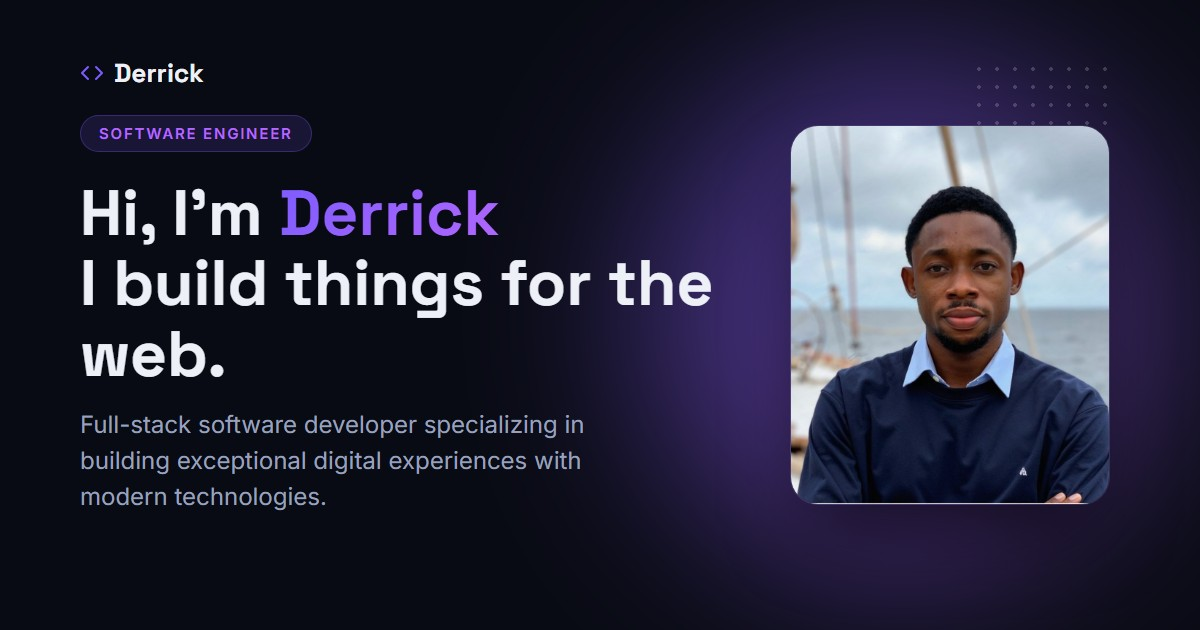
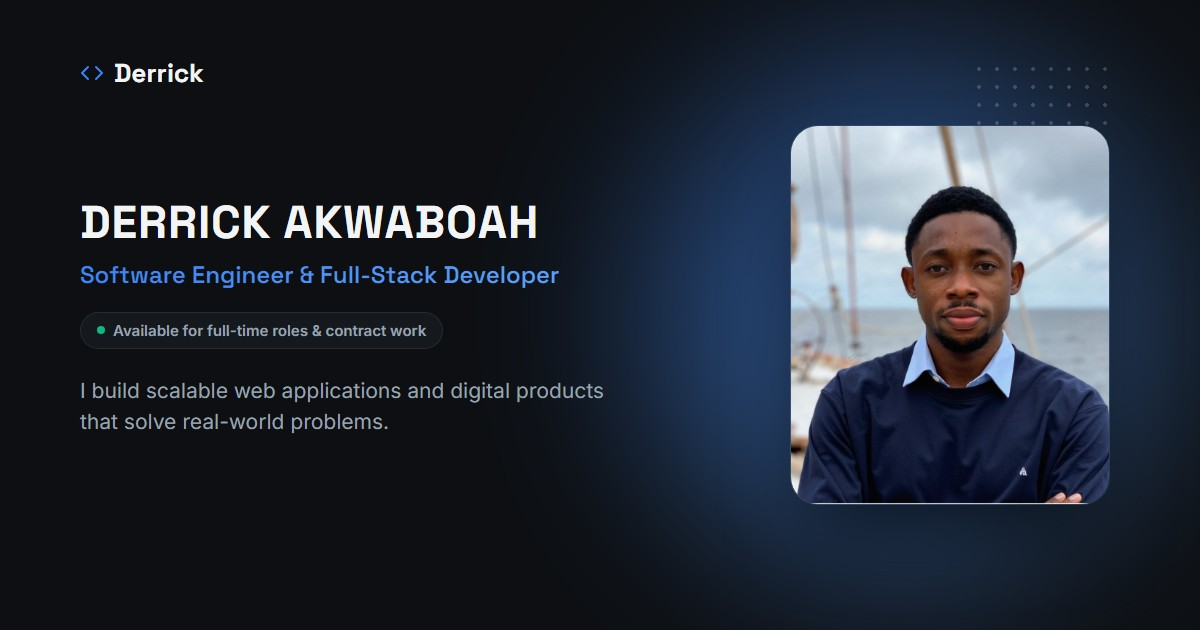
Regenerate OG/social preview image and update meta copy
The share-preview image was still showing the old hero headline and
purple palette from before the redesign. Re-rendered it to match the
current name/role/badge layout and blue/emerald theme, and updated
the title/description meta tags to the new positioning.

diff --git a/index.html b/index.html
@@ -4,19 +4,19 @@
     <meta charset="UTF-8" />
     <link rel="icon" type="image/svg+xml" href="/favicon.svg" />
     <meta name="viewport" content="width=device-width, initial-scale=1.0" />
-    <meta name="theme-color" content="#090b14" />
-    <title>Derrick Akwaboah — Software Developer</title>
-    <meta name="description" content="Portfolio of Derrick Akwaboah, a full-stack software developer building exceptional digital experiences with React, Node.js, and modern web technologies." />
+    <meta name="theme-color" content="#0d0f12" />
+    <title>Derrick Akwaboah — Software Engineer & Full-Stack Developer</title>
+    <meta name="description" content="Portfolio of Derrick Akwaboah, a software engineer and full-stack developer building scalable web applications and digital products with React, Node.js, and modern web technologies." />
 
     <meta property="og:type" content="website" />
     <meta property="og:url" content="https://derrick-akwaboah-portfolio.vercel.app/" />
-    <meta property="og:title" content="Derrick Akwaboah — Software Developer" />
-    <meta property="og:description" content="Portfolio of Derrick Akwaboah, a full-stack software developer building exceptional digital experiences with React, Node.js, and modern web technologies." />
+    <meta property="og:title" content="Derrick Akwaboah — Software Engineer & Full-Stack Developer" />
+    <meta property="og:description" content="Portfolio of Derrick Akwaboah, a software engineer and full-stack developer building scalable web applications and digital products with React, Node.js, and modern web technologies." />
     <meta property="og:image" content="https://derrick-akwaboah-portfolio.vercel.app/og-image.jpg" />
 
     <meta name="twitter:card" content="summary_large_image" />
-    <meta name="twitter:title" content="Derrick Akwaboah — Software Developer" />
-    <meta name="twitter:description" content="Portfolio of Derrick Akwaboah, a full-stack software developer building exceptional digital experiences with React, Node.js, and modern web technologies." />
+    <meta name="twitter:title" content="Derrick Akwaboah — Software Engineer & Full-Stack Developer" />
+    <meta name="twitter:description" content="Portfolio of Derrick Akwaboah, a software engineer and full-stack developer building scalable web applications and digital products with React, Node.js, and modern web technologies." />
     <meta name="twitter:image" content="https://derrick-akwaboah-portfolio.vercel.app/og-image.jpg" />
   </head>
   <body>
